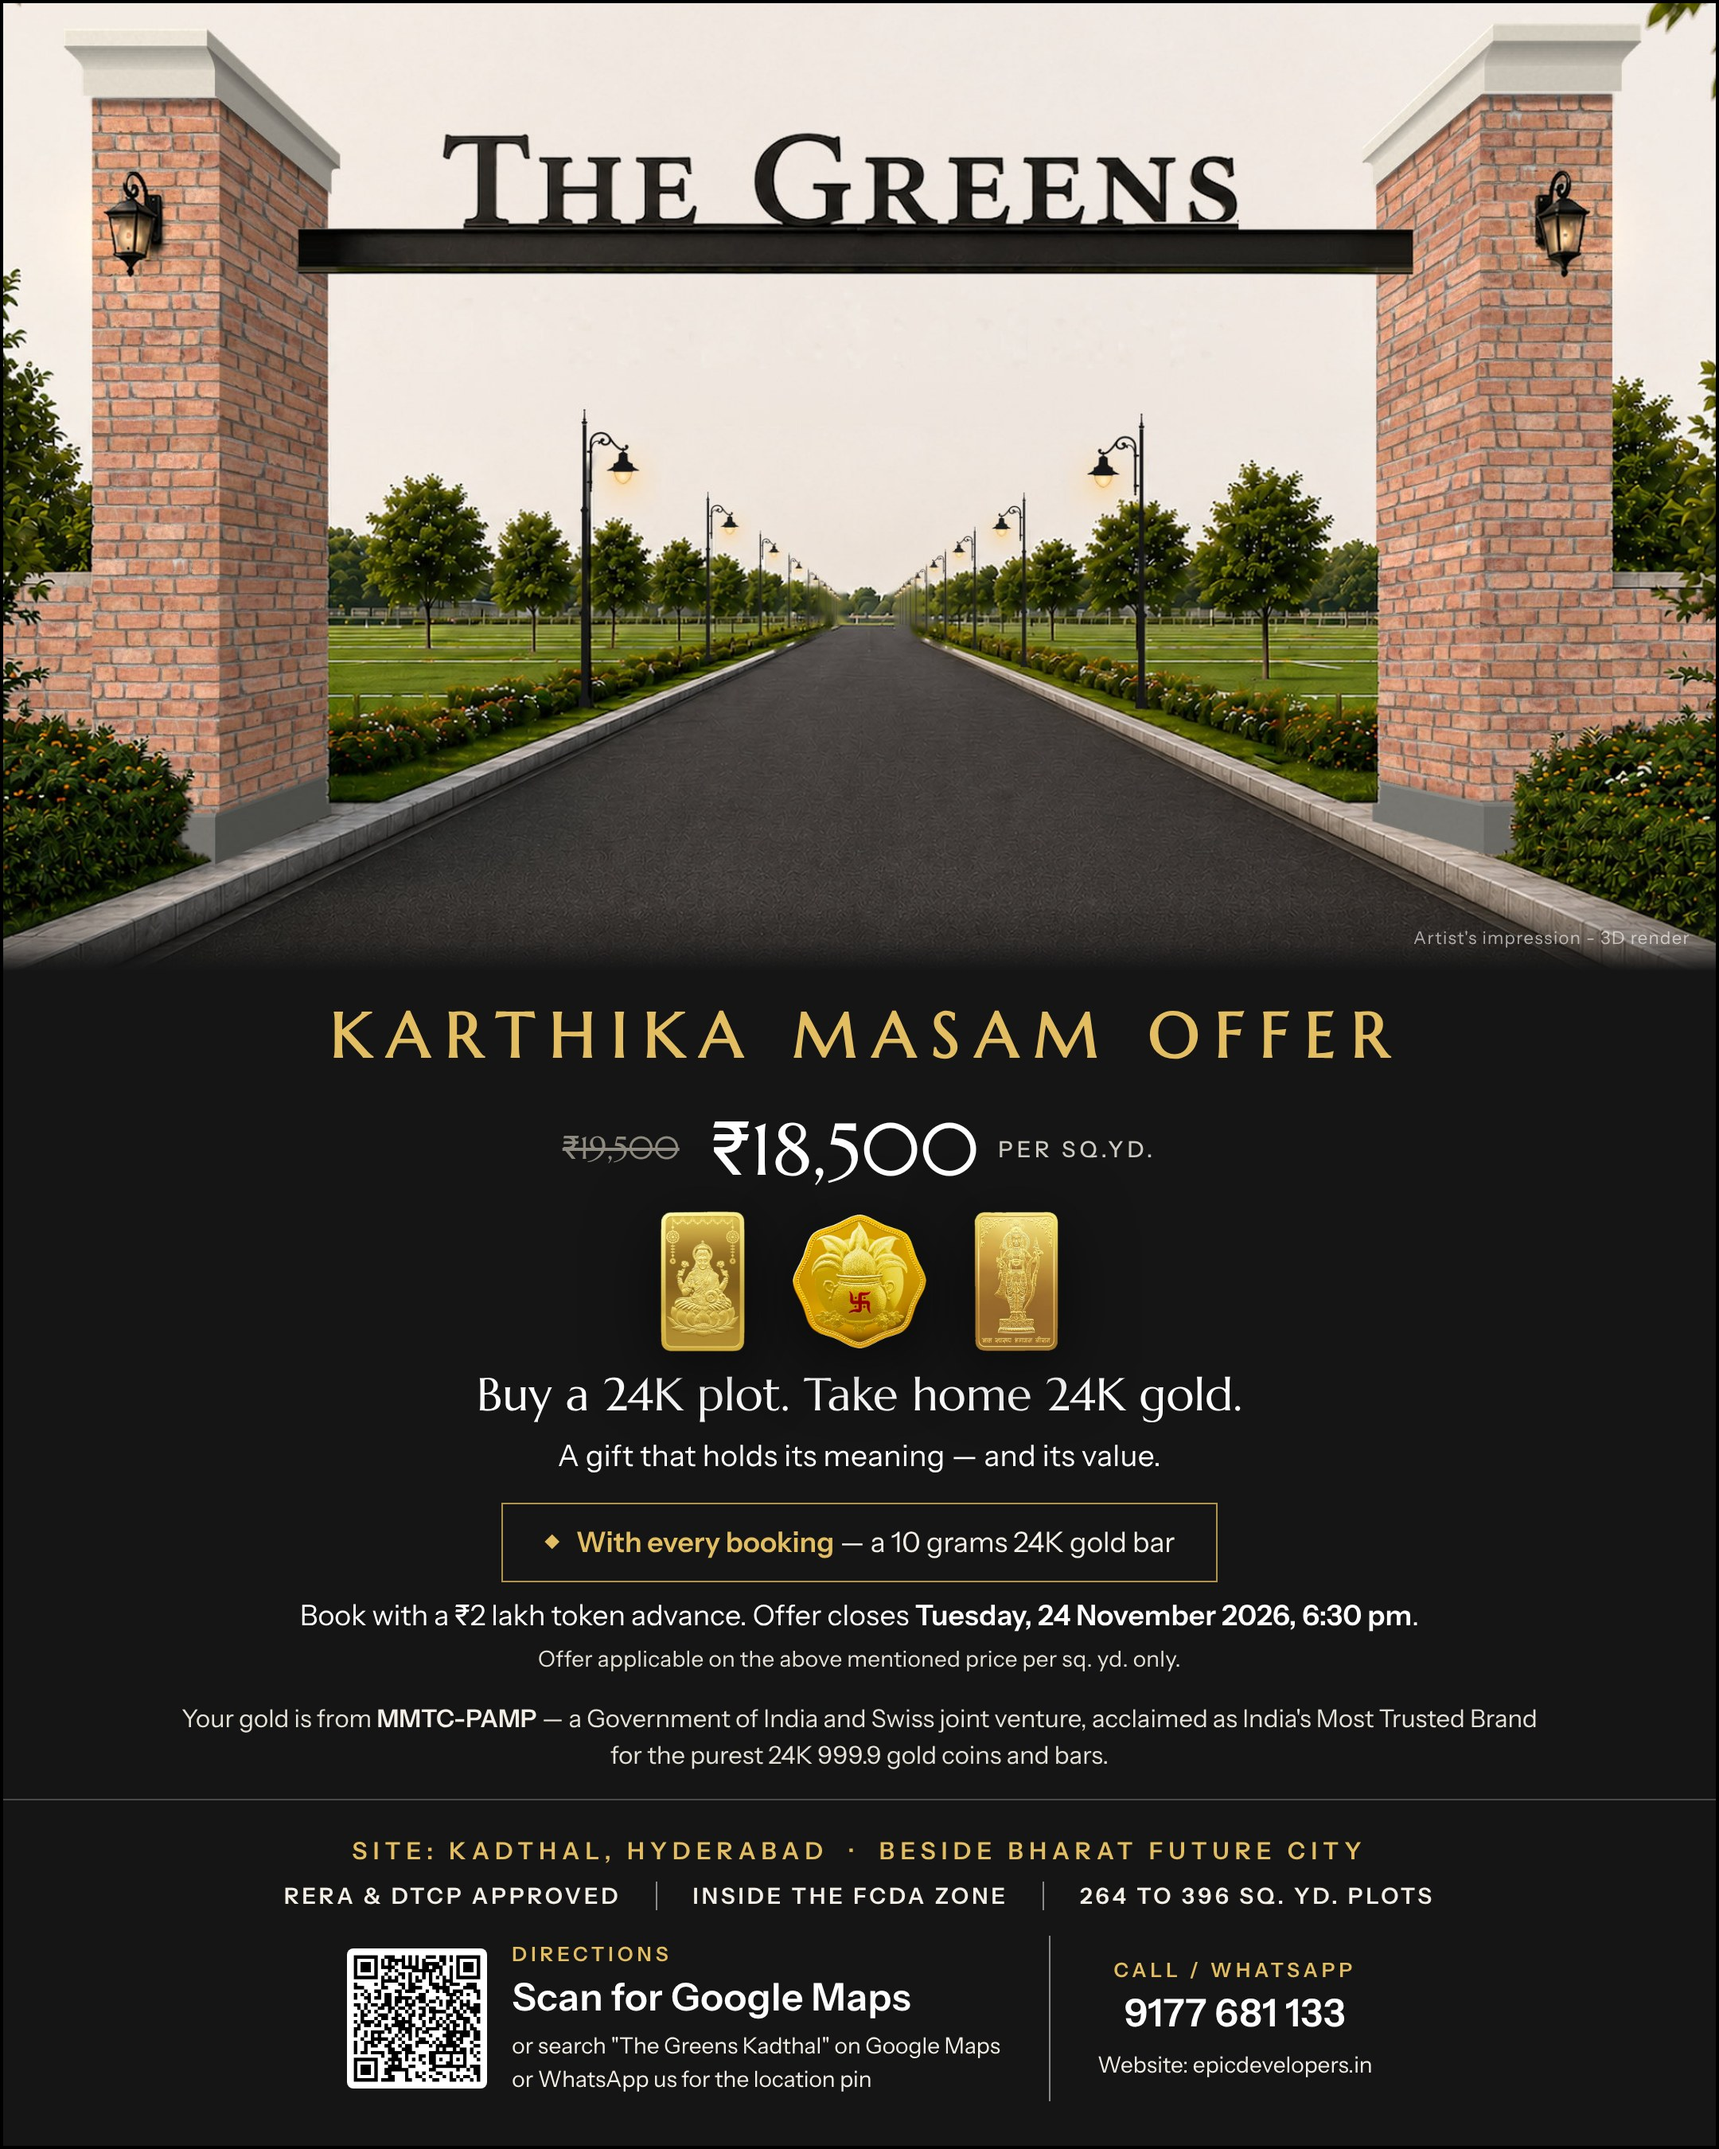
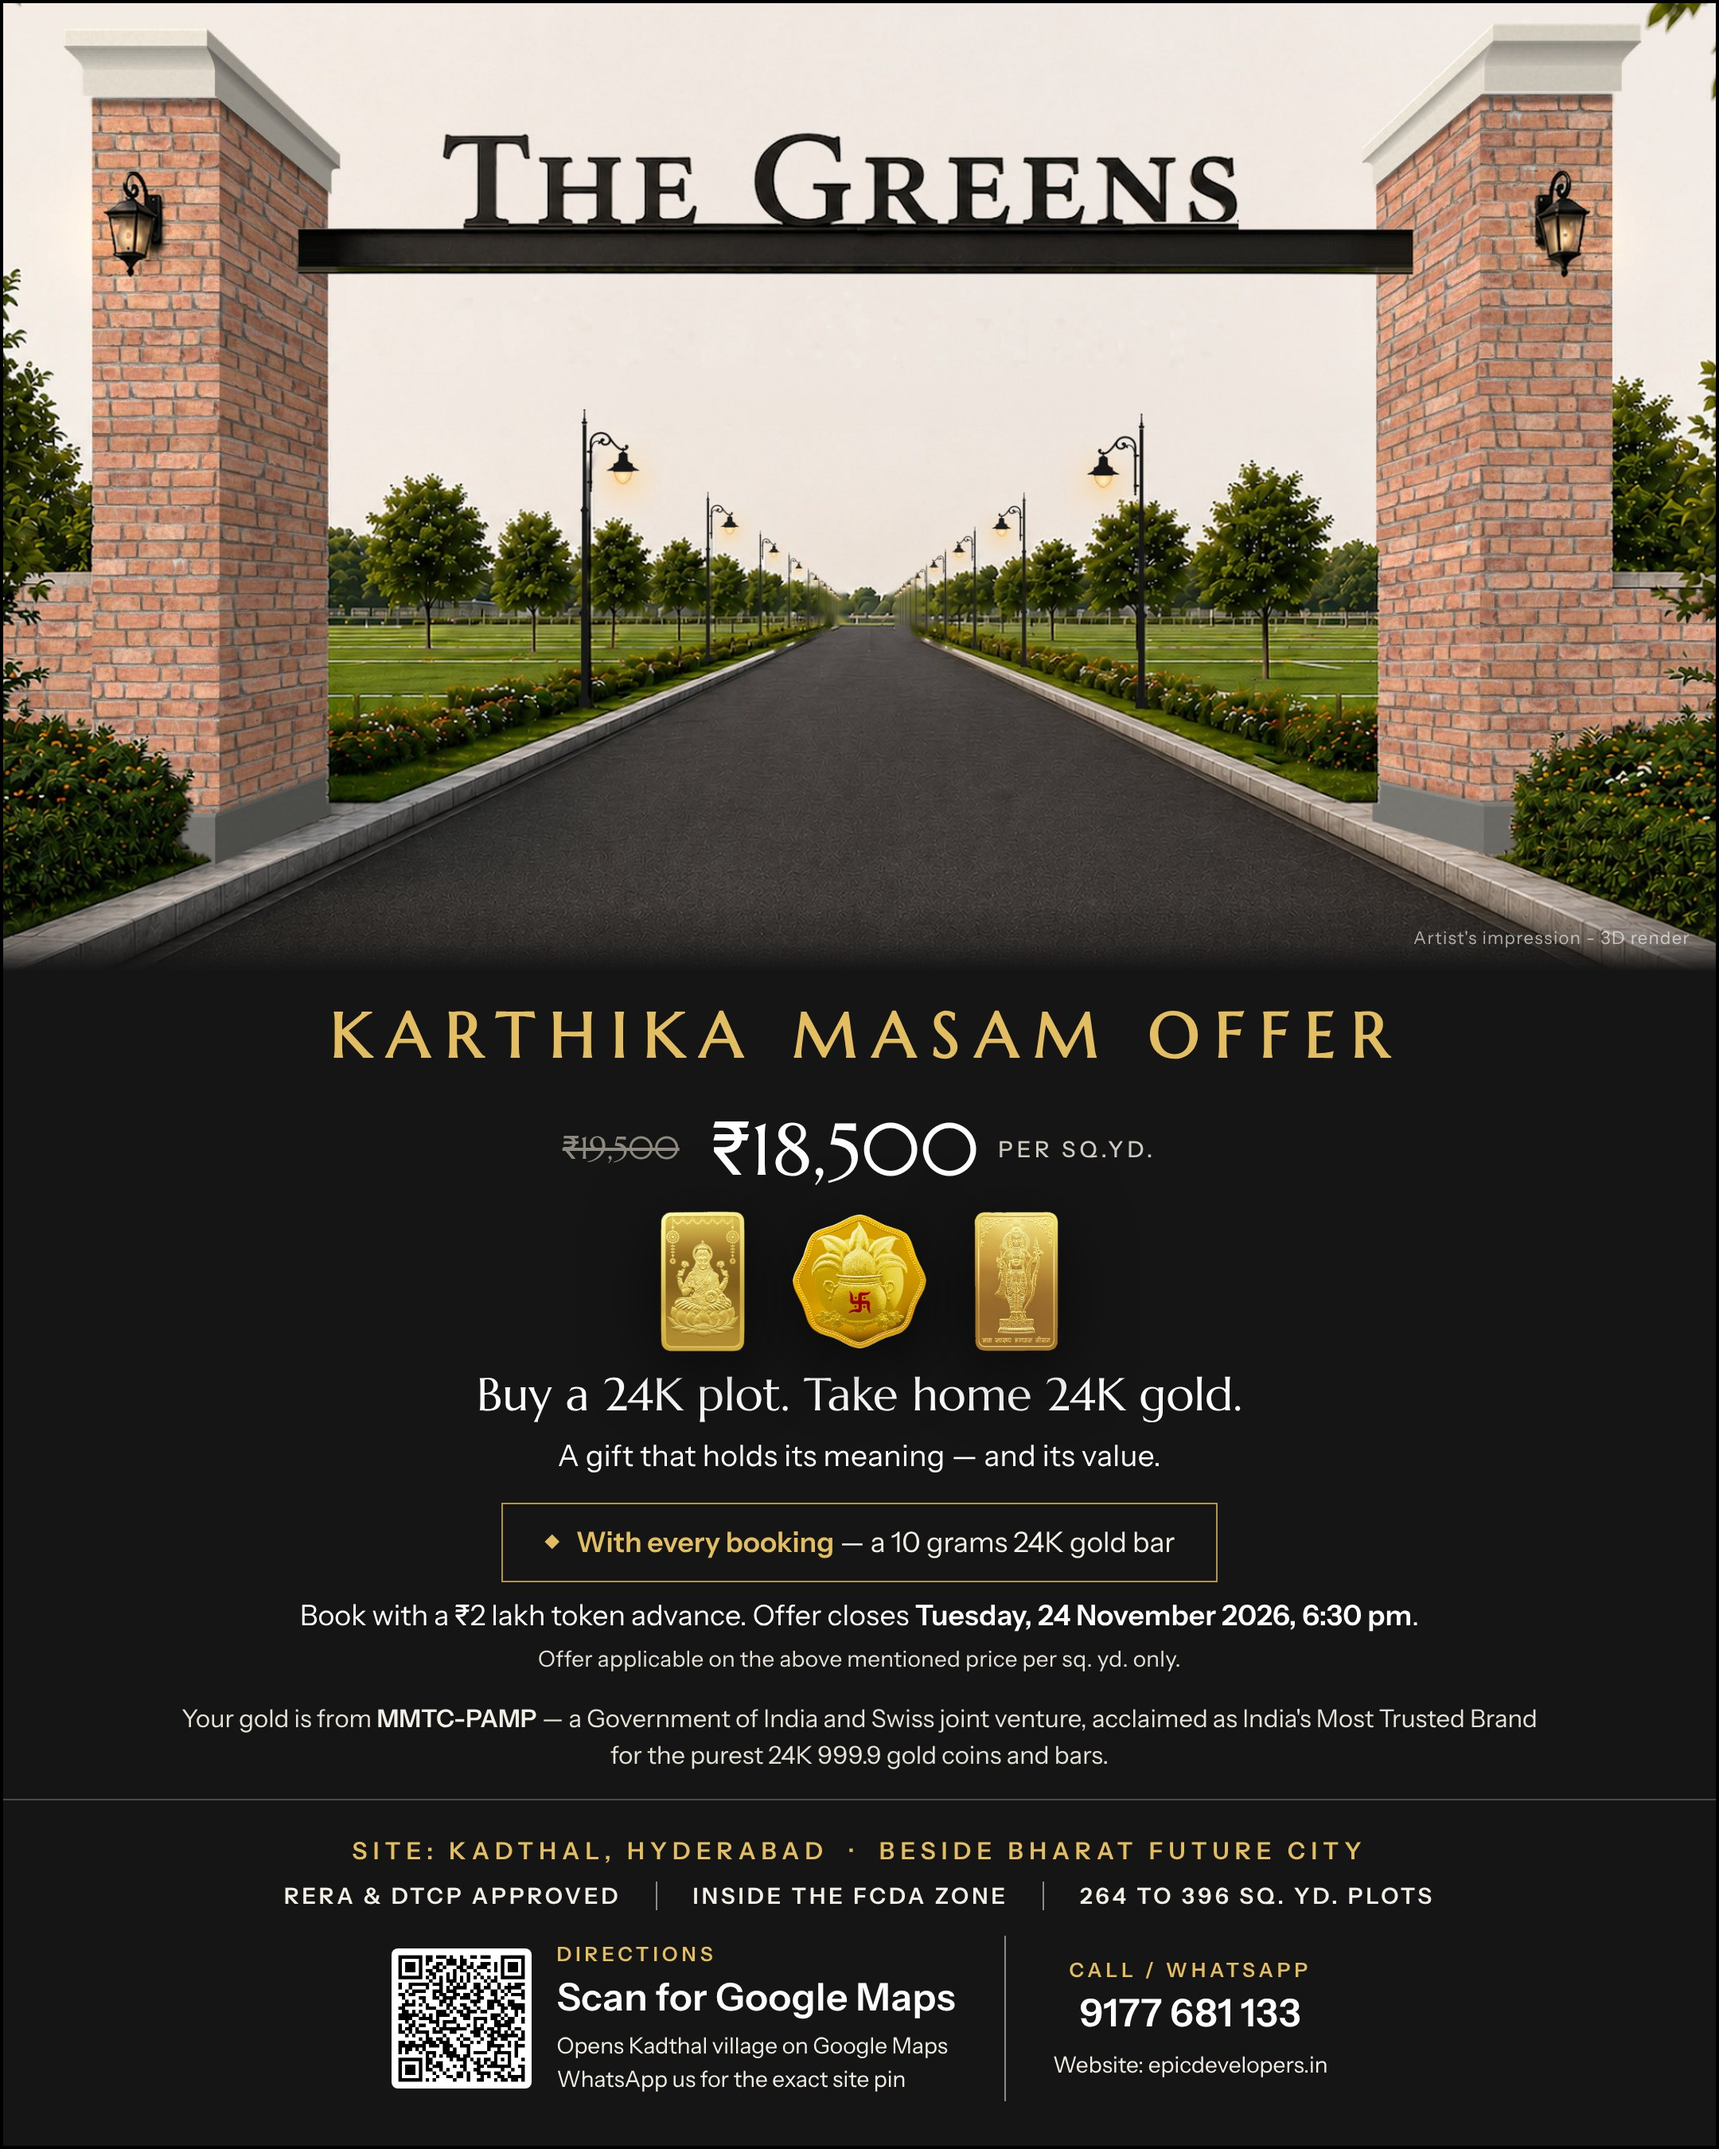
Greens offer: point Directions to Kadthal until exact pin is available
Claude-Session: https://claude.ai/code/session_014hxhTvT34tGMRhmkujJx4R

Changed region(s): [[0.1861, 0.9022, 0.5894, 0.9956], [0.6204, 0.9022, 0.8065, 0.9644]]

diff --git a/greens-offer/index.html b/greens-offer/index.html
@@ -171,7 +171,7 @@
   <div class="in">
     <a class="btn wa" href="https://wa.me/919177681133?text=Hi%2C%20I%27m%20interested%20in%20The%20Greens%20Karthika%20Masam%20offer%20at%20Kadthal."><svg viewBox="0 0 24 24"><path d="M17.5 14.4c-.3-.1-1.8-.9-2-1-.3-.1-.5-.1-.7.1-.2.3-.8 1-.9 1.2-.2.2-.3.2-.6.1-.3-.1-1.3-.5-2.4-1.5-.9-.8-1.5-1.8-1.7-2.1-.2-.3 0-.5.1-.6l.5-.5c.1-.2.2-.3.3-.5.1-.2 0-.4 0-.5l-.9-2.2c-.2-.6-.5-.5-.7-.5h-.6c-.2 0-.5.1-.8.4-.3.3-1 1-1 2.5s1.1 2.9 1.2 3.1c.1.2 2.1 3.2 5.1 4.5.7.3 1.3.5 1.7.6.7.2 1.4.2 1.9.1.6-.1 1.8-.7 2-1.4.2-.7.2-1.3.2-1.4-.1-.2-.3-.3-.6-.4zM12 2a10 10 0 0 0-8.6 15.1L2 22l5-1.3A10 10 0 1 0 12 2zm0 18.2a8.2 8.2 0 0 1-4.2-1.2l-.3-.2-3 .8.8-2.9-.2-.3A8.2 8.2 0 1 1 12 20.2z"/></svg>WhatsApp</a>
     <a class="btn" href="tel:+919177681133"><svg viewBox="0 0 24 24"><path d="M6.6 10.8a15.1 15.1 0 0 0 6.6 6.6l2.2-2.2c.3-.3.7-.4 1-.2 1.1.4 2.3.6 3.6.6.6 0 1 .4 1 1V20c0 .6-.4 1-1 1A17 17 0 0 1 3 4c0-.6.4-1 1-1h3.5c.6 0 1 .4 1 1 0 1.3.2 2.5.6 3.6.1.3 0 .7-.2 1l-2.3 2.2z"/></svg><span class="l">Call</span></a>
-    <a class="btn gold" href="https://www.google.com/maps/search/?api=1&amp;query=The+Greens+Kadthal+Epic+Developers"><svg viewBox="0 0 24 24"><path d="M12 2a7 7 0 0 0-7 7c0 5.2 7 13 7 13s7-7.8 7-13a7 7 0 0 0-7-7zm0 9.5A2.5 2.5 0 1 1 12 6.5a2.5 2.5 0 0 1 0 5z"/></svg><span class="l">Directions</span></a>
+    <a class="btn gold" href="https://www.google.com/maps/search/?api=1&amp;query=Kadthal,+Rangareddy,+Telangana"><svg viewBox="0 0 24 24"><path d="M12 2a7 7 0 0 0-7 7c0 5.2 7 13 7 13s7-7.8 7-13a7 7 0 0 0-7-7zm0 9.5A2.5 2.5 0 1 1 12 6.5a2.5 2.5 0 0 1 0 5z"/></svg><span class="l">Directions</span></a>
   </div>
 </nav>
 
